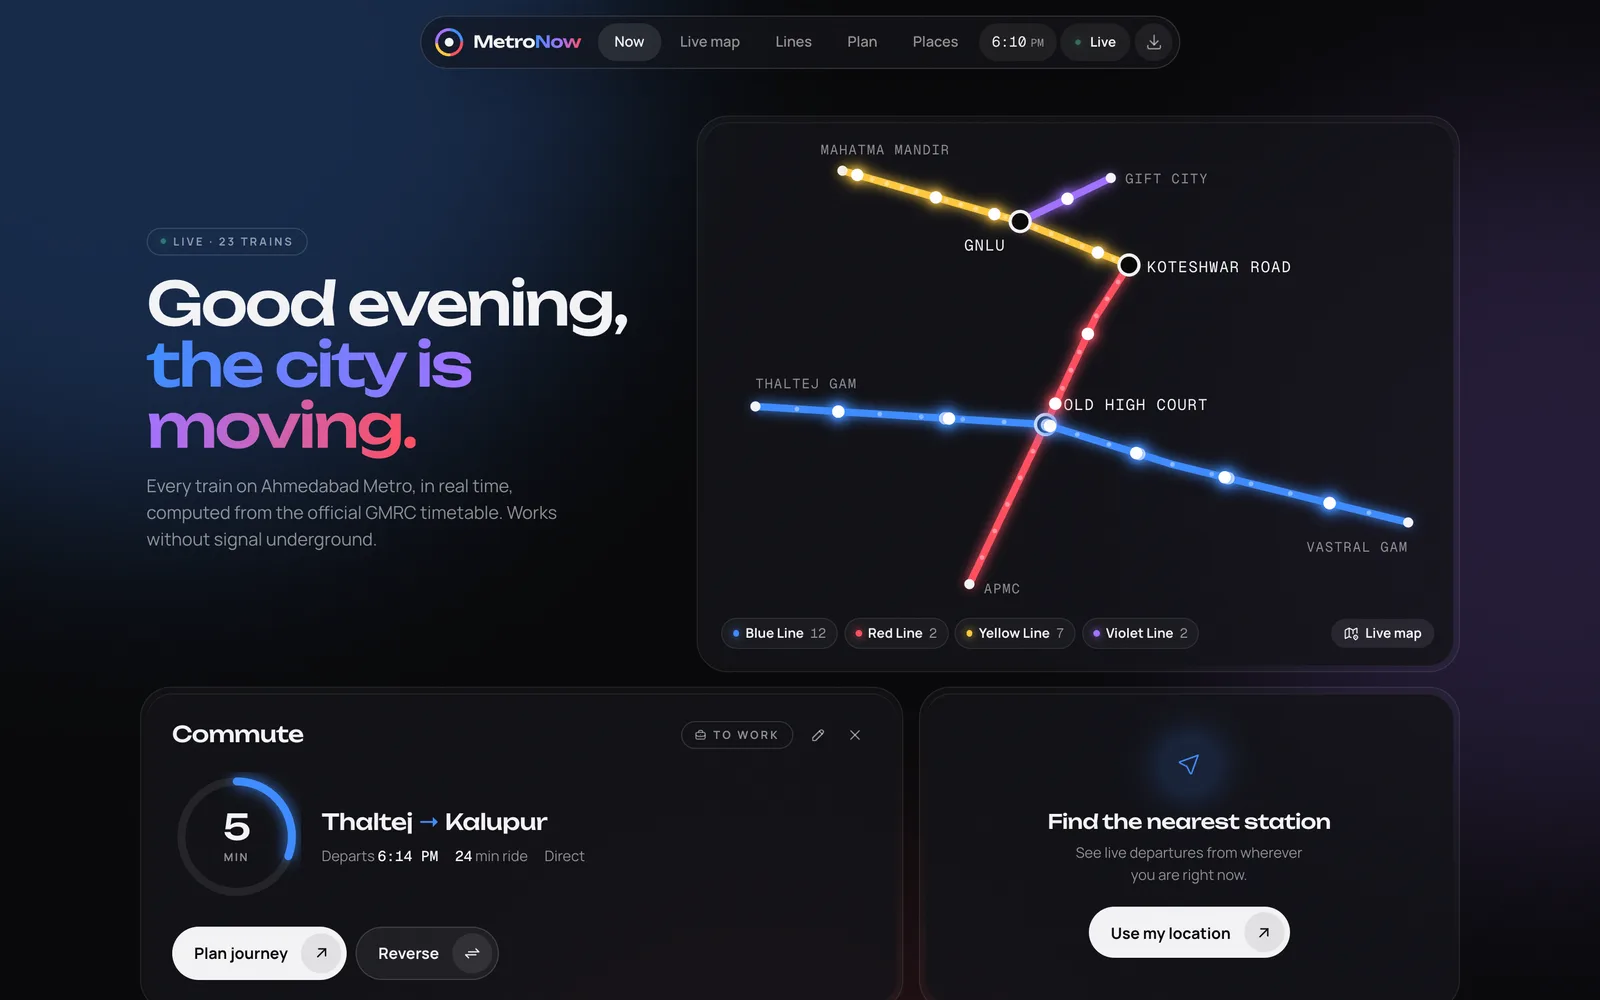
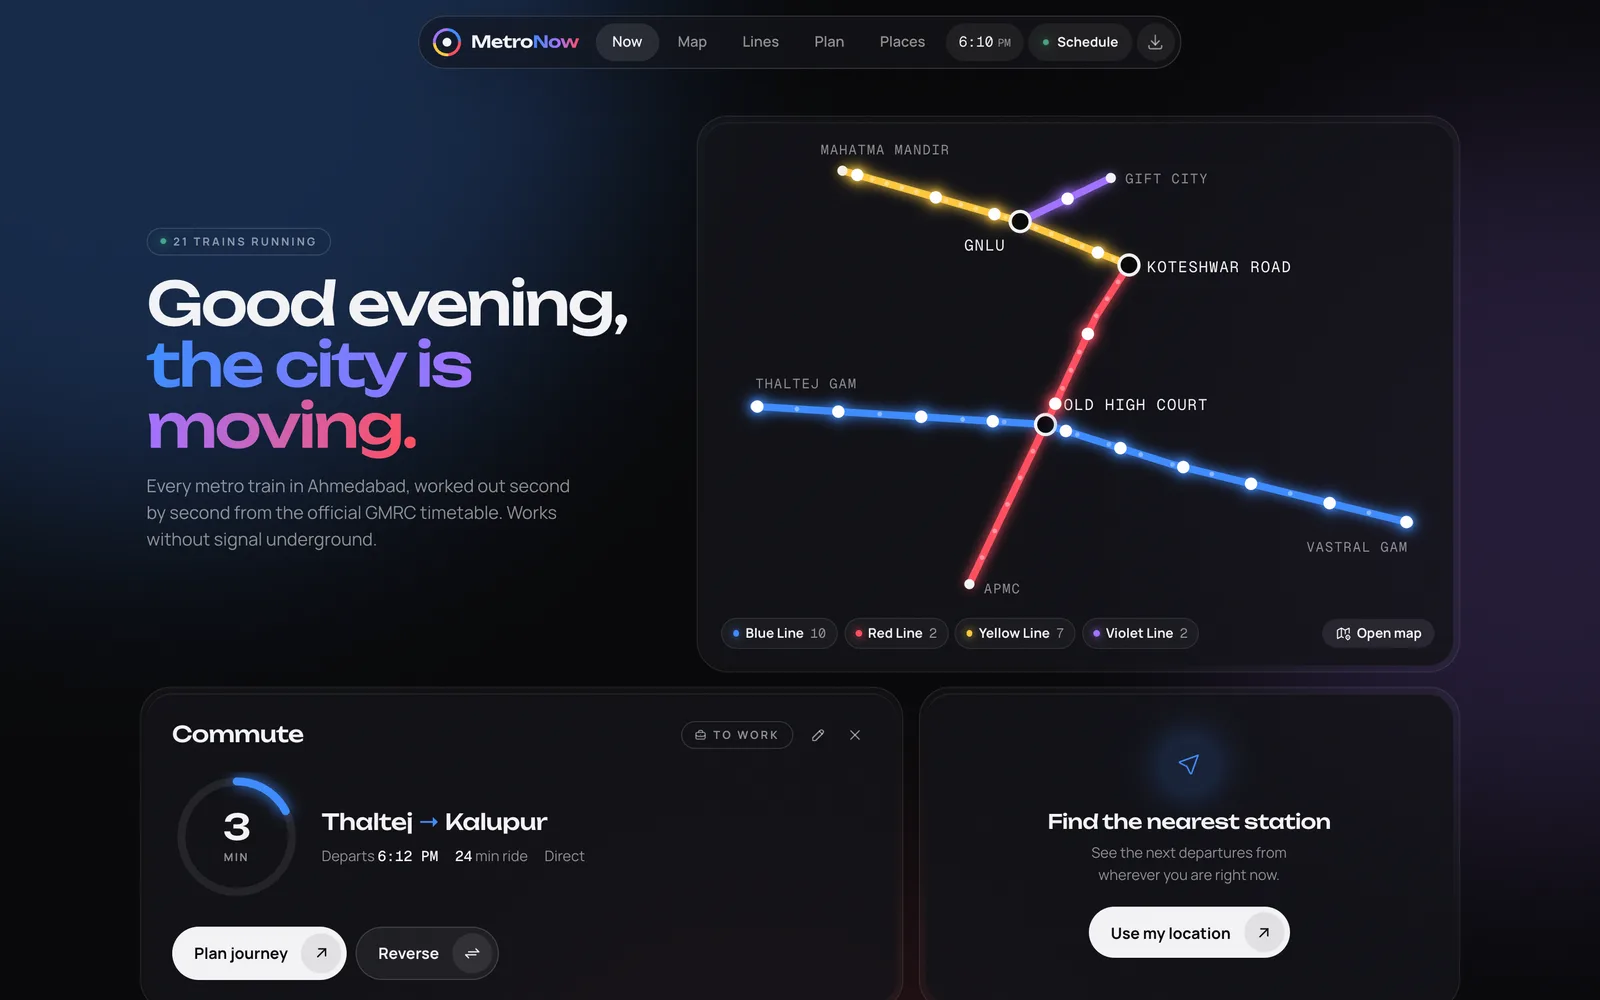
Rename for Play impersonation policy and drop live claims

diff --git a/src/features/shell/pages/HomePage.tsx b/src/features/shell/pages/HomePage.tsx
@@ -36,7 +36,7 @@ export function HomePage() {
         <div className="rise flex flex-col justify-center px-1.5 pt-2 pb-4 lg:col-span-5 lg:pr-6">
           <span className="eyebrow self-start">
             <span className="live-dot" />
-            {total > 0 ? `Live · ${total} train${total === 1 ? '' : 's'}` : 'No service right now'}
+            {total > 0 ? `${total} train${total === 1 ? '' : 's'} running` : 'No service right now'}
           </span>
           <h1 className="mt-4 font-display text-[clamp(2rem,7.6vw,3.6rem)] leading-[1.02] font-medium tracking-[-0.045em]">
             {greeting(clock.secondsOfDay)},
@@ -44,7 +44,7 @@ export function HomePage() {
             <span className="glow-text">{total > 0 ? 'the city is moving.' : 'the metro is resting.'}</span>
           </h1>
           <p className="mt-4 max-w-[40ch] text-[15px] text-muted-foreground md:text-[16px]">
-            Every train on Ahmedabad Metro, in real time, computed from the official GMRC timetable. Works without
+            Every metro train in Ahmedabad, worked out second by second from the official GMRC timetable. Works without
             signal underground.
           </p>
         </div>
@@ -70,7 +70,7 @@ export function HomePage() {
               to="/map"
               className="press ml-auto inline-flex items-center gap-1.5 rounded-full bg-white/8 px-3 py-1 text-[12px] font-bold hover:bg-white/12"
             >
-              <IconMap2 size={14} stroke={1.75} /> Live map
+              <IconMap2 size={14} stroke={1.75} /> Open map
             </Link>
           </div>
         </Bezel>
@@ -131,7 +131,7 @@ export function HomePage() {
                     />
                     {l.name}
                   </span>
-                  <span className="tnum font-mono text-[12px] text-muted-foreground">{counts[line]} live</span>
+                  <span className="tnum font-mono text-[12px] text-muted-foreground">{counts[line]} running</span>
                 </span>
                 <span className="relative mt-4 font-display text-[19px] leading-tight font-medium tracking-[-0.03em]">
                   {l.from}
@@ -193,7 +193,7 @@ function NearestCard({ nearest }: { nearest: ReturnType<typeof useNearestStation
           </span>
           <p className="font-display text-[18px] font-medium tracking-tight">Find the nearest station</p>
           <p className="mx-auto mt-1.5 mb-5 max-w-[28ch] text-[13px] text-muted-foreground">
-            See live departures from wherever you are right now.
+            See the next departures from wherever you are right now.
           </p>
           <button type="button" onClick={nearest.locate} className="pill-btn">
             Use my location

diff --git a/vite.config.ts b/vite.config.ts
@@ -65,9 +65,9 @@ export default defineConfig({
             includeAssets: ['favicon.svg', 'apple-touch-icon.png'],
             manifest: {
                 id: '/',
-                name: 'MetroNow — Ahmedabad Metro',
+                name: 'MetroNow: Ahmedabad Trains',
                 short_name: 'MetroNow',
-                description: 'Live train positions, timings and journey planning for the Ahmedabad Metro, computed from the official GMRC timetable.',
+                description: 'Train times, departures and journey planning for the metro in Ahmedabad, computed from the official GMRC timetable. Independent app, not affiliated with GMRC.',
                 theme_color: '#050507',
                 background_color: '#050507',
                 display: 'standalone',
@@ -83,7 +83,7 @@ export default defineConfig({
                 ],
                 shortcuts: [
                     {name: 'Plan a journey', short_name: 'Plan', url: '/plan', icons: [{src: '/pwa-192x192.png', sizes: '192x192'}]},
-                    {name: 'Live map', short_name: 'Live Map', url: '/map', icons: [{src: '/pwa-192x192.png', sizes: '192x192'}]},
+                    {name: 'Map', short_name: 'Map', url: '/map', icons: [{src: '/pwa-192x192.png', sizes: '192x192'}]},
                 ],
             },
             workbox: {

diff --git a/src/features/shell/LiveBadge.tsx b/src/features/shell/LiveBadge.tsx
@@ -16,9 +16,9 @@ export function LiveBadge() {
           }
         >
           <span className="live-dot" />
-          <span>Live</span>
+          <span>Schedule</span>
         </TooltipTrigger>
-        <TooltipContent side="bottom">About live data</TooltipContent>
+        <TooltipContent side="bottom">How MetroNow works</TooltipContent>
       </Tooltip>
 
       <DrawerContent>
@@ -30,9 +30,9 @@ export function LiveBadge() {
             <IconBroadcast size={26} stroke={1.5} />
           </div>
           <DrawerHeader className="items-center px-0 text-center md:text-center">
-            <DrawerTitle className="text-[20px]">About live data</DrawerTitle>
+            <DrawerTitle className="text-[20px]">How MetroNow works</DrawerTitle>
             <DrawerDescription className="text-[14px] leading-relaxed">
-              Ahmedabad Metro doesn't publish a real-time train feed. Positions and countdowns
+              GMRC does not publish a real time train feed for its Ahmedabad network. Positions and countdowns
               are computed from the official GMRC timetable against the current time.
             </DrawerDescription>
           </DrawerHeader>

diff --git a/index.html b/index.html
@@ -8,11 +8,11 @@
     <meta name="viewport" content="width=device-width, initial-scale=1.0, viewport-fit=cover" />
     <meta name="theme-color" content="#050507" />
     <meta name="color-scheme" content="dark" />
-    <meta name="description" content="Live train positions, timings and journey planning for the Ahmedabad Metro, computed from the official GMRC timetable." />
+    <meta name="description" content="Train times, departures and journey planning for the metro in Ahmedabad, computed from the official GMRC timetable. Independent app, not affiliated with GMRC." />
     <meta name="apple-mobile-web-app-capable" content="yes" />
     <meta name="apple-mobile-web-app-status-bar-style" content="black-translucent" />
     <meta name="apple-mobile-web-app-title" content="MetroNow" />
-    <title>MetroNow — Ahmedabad Metro, live</title>
+    <title>MetroNow: Ahmedabad train times</title>
   </head>
   <body style="background:#050507">
     <div id="root"></div>

diff --git a/src/features/shell/nav.ts b/src/features/shell/nav.ts
@@ -11,7 +11,7 @@ export interface NavItem {
 
 export const NAV_ITEMS: NavItem[] = [
   { to: '/', label: 'Now', short: 'Now', icon: IconCircleDot, match: p => p === '/' },
-  { to: '/map', label: 'Live map', short: 'Map', icon: IconMap2, match: p => p.startsWith('/map') },
+  { to: '/map', label: 'Map', short: 'Map', icon: IconMap2, match: p => p.startsWith('/map') },
   { label: 'Lines', short: 'Lines', icon: IconRoute, match: p => p.startsWith('/line') },
   { to: '/plan', label: 'Plan', short: 'Plan', icon: IconMapPin, match: p => p.startsWith('/plan') || p.startsWith('/station') },
   { to: '/places', label: 'Places', short: 'Places', icon: IconBuildingStore, match: p => p.startsWith('/places') },

diff --git a/src/features/shell/LinesDrawer.tsx b/src/features/shell/LinesDrawer.tsx
@@ -43,7 +43,7 @@ export function LinesDrawer({ open, onOpenChange }: { open: boolean; onOpenChang
                     {meta.from} → {meta.to}
                   </span>
                   <span className="tnum mt-0.5 block font-mono text-[11px] text-muted-foreground">
-                    {formatScheduleTime12(meta.firstDeparture)} – {formatScheduleTime12(meta.lastArrival)} · {counts[line]} live
+                    {formatScheduleTime12(meta.firstDeparture)} – {formatScheduleTime12(meta.lastArrival)} · {counts[line]} running
                   </span>
                 </span>
                 <IconArrowUpRight size={18} stroke={1.5} className="relative shrink-0 text-muted-foreground" />

diff --git a/src/features/map/MapPage.tsx b/src/features/map/MapPage.tsx
@@ -343,7 +343,7 @@ function MapLegend() {
   return (
     <div className="glass absolute bottom-[calc(env(safe-area-inset-bottom)+96px)] left-3 z-10 flex max-w-[calc(100%-96px)] flex-wrap items-center gap-x-3 gap-y-1 rounded-[20px] px-3.5 py-2.5 text-[12px] font-bold shadow-lg md:bottom-6 md:left-6">
       <span className="flex items-center gap-1.5 text-muted-foreground">
-        <span className="live-dot" /> Live
+        <span className="live-dot" /> Running
       </span>
       {LINE_IDS.map(line => (
         <span key={line} className="flex items-center gap-1.5">

diff --git a/src/features/shell/AppFooter.tsx b/src/features/shell/AppFooter.tsx
@@ -30,7 +30,7 @@ export function AppFooter() {
           </span>
         </div>
         <p className="mt-2 max-w-[42ch] text-[13px] text-muted-foreground">
-          Ahmedabad Metro train times, computed from the official GMRC timetable. An independent app that does not
+          Train times for the metro in Ahmedabad, computed from the official GMRC timetable. An independent app that does not
           represent any government entity and is not affiliated with GMRC.
         </p>
         <p className="mt-2 text-[12px] text-muted-foreground">

diff --git a/src/features/shell/MenuOverlay.tsx b/src/features/shell/MenuOverlay.tsx
@@ -60,7 +60,7 @@ export function MenuOverlay({ open, onClose, onOpenLines }: { open: boolean; onC
 
       <div className="mt-10 overflow-hidden">
         <div {...reveal(NAV_ITEMS.length)}>
-          <p className="mb-3 text-[10px] font-bold tracking-[0.2em] text-muted-foreground uppercase">Lines · live now</p>
+          <p className="mb-3 text-[10px] font-bold tracking-[0.2em] text-muted-foreground uppercase">Lines · trains running</p>
           <div className="grid grid-cols-2 gap-2">
             {LINE_IDS.map(line => (
               <Link

diff --git a/src/features/map/NetworkPulse.tsx b/src/features/map/NetworkPulse.tsx
@@ -113,7 +113,7 @@ export function NetworkPulse() {
   }, []);
 
   return (
-    <svg viewBox={`0 0 ${W} ${H}`} role="img" aria-label="Live schematic of the Ahmedabad Metro network" className="block h-auto w-full">
+    <svg viewBox={`0 0 ${W} ${H}`} role="img" aria-label="Schematic of the metro network in Ahmedabad with scheduled train positions" className="block h-auto w-full">
       <defs>
         <filter id="np-line-glow" x="-20%" y="-20%" width="140%" height="140%">
           <feGaussianBlur stdDeviation="3.2" result="b" />

diff --git a/src/features/shell/pages/PrivacyPage.tsx b/src/features/shell/pages/PrivacyPage.tsx
@@ -54,7 +54,7 @@ export function PrivacyPage() {
               service to look it up. Your location is not included.
             </li>
             <li>
-              <b className="text-foreground">Map</b> — the live map loads map tiles from{' '}
+              <b className="text-foreground">Map</b> — the map loads map tiles from{' '}
               <a className="text-foreground underline" href="https://openfreemap.org" target="_blank" rel="noopener noreferrer">
                 OpenFreeMap
               </a>

diff --git a/src/features/journey/PlanPage.tsx b/src/features/journey/PlanPage.tsx
@@ -275,7 +275,7 @@ function JourneyResult({
     if (mode === 'arrive') params.set('by', secondsToHHMM(plan.arriveSeconds));
     const url = `${window.location.origin}/plan?${params}`;
     if (navigator.share) {
-      try { await navigator.share({ title: 'Ahmedabad Metro journey', url }); } catch { /* cancelled */ }
+      try { await navigator.share({ title: 'MetroNow journey', url }); } catch { /* cancelled */ }
     } else {
       await navigator.clipboard.writeText(url);
       setCopied(true);
